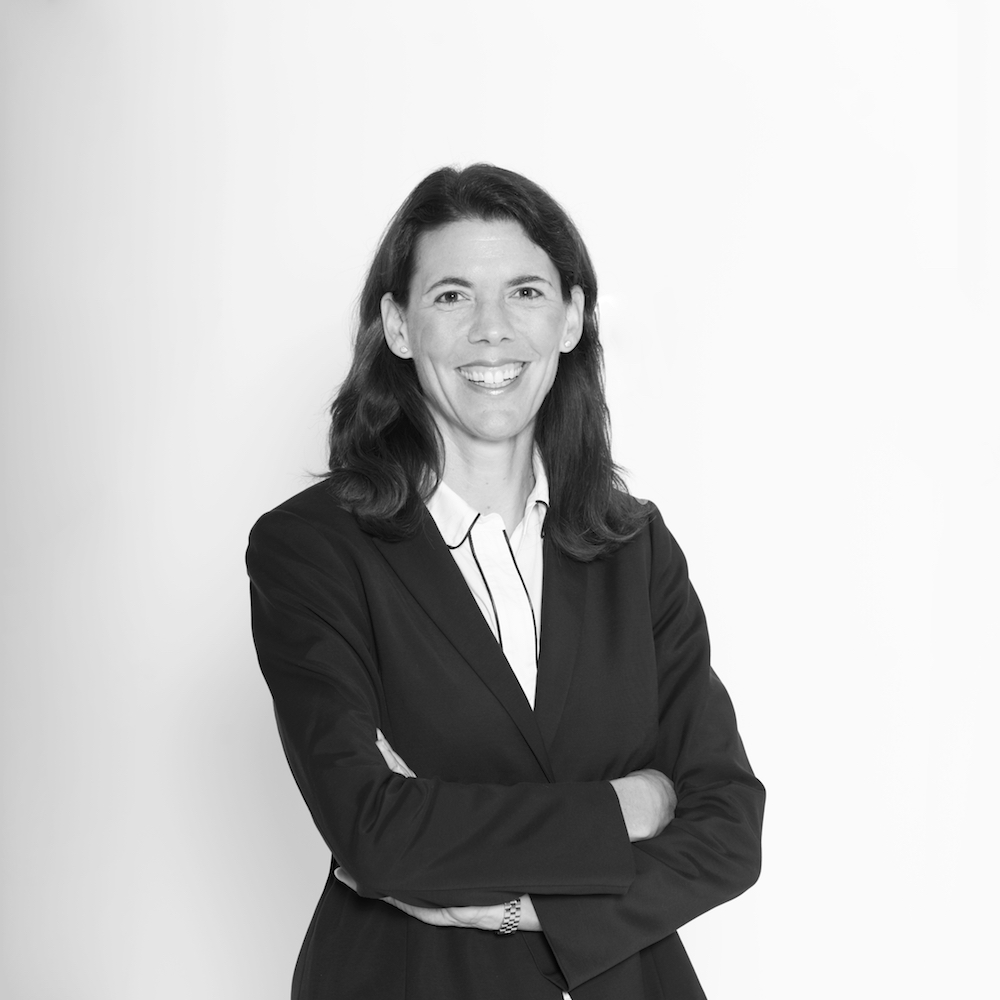
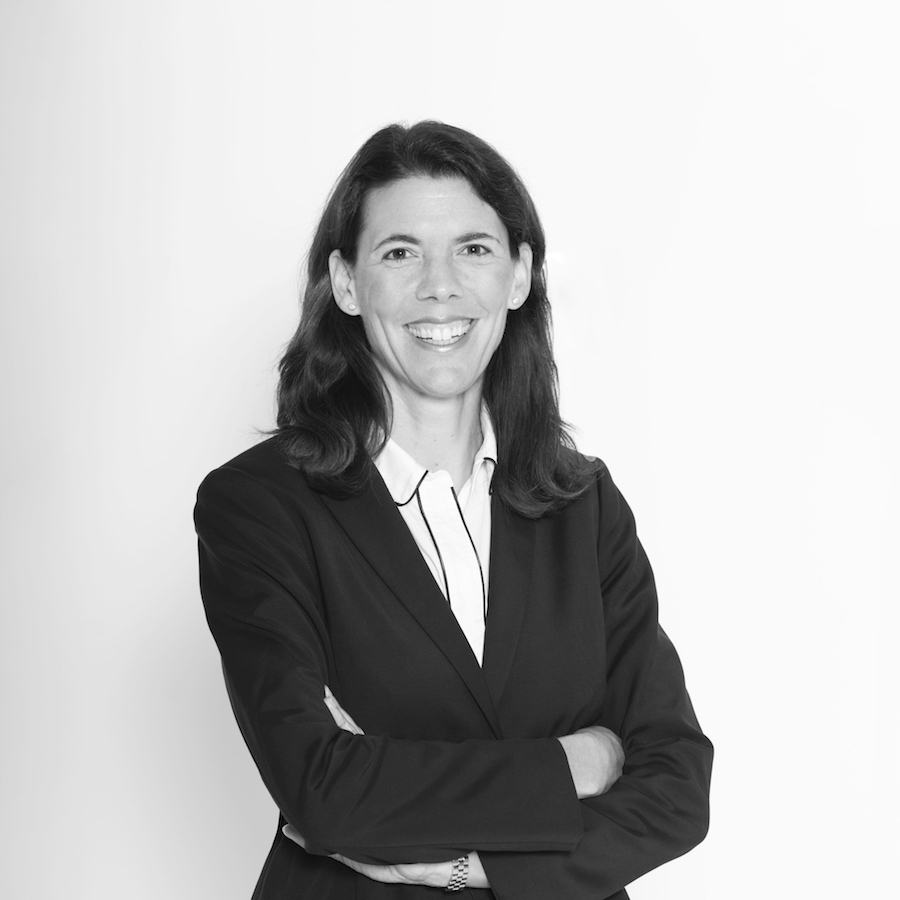
update pics

diff --git a/src/components/pictureslider/aboutgroupslider.jsx b/src/components/pictureslider/aboutgroupslider.jsx
@@ -11,7 +11,7 @@ import Ginie from '../../images/ginie.jpg';
 import Larissa from '../../images/larissa.jpg';
 import Keith from '../../../static/teamssuf/keith.jpg';
 import Daniel from '../../../static/teamssuf/daniel.jpg';
-import Tamara from '../../../static/teamssuf/tamarasquare.jpg';
+import Tamara from '../../images/tamaranew.jpg';
 // import Jana from '../../../static/teamssuf/jana.jpg';
 
 import './arrow.css';
@@ -390,7 +390,7 @@ const pages = [
               <dd className='ml0 mb3'>Startups, modern art and wine</dd>
               <dt className='f6 b mt2'>Favorite Book</dt>
               <dd className='ml0 mb3'>
-              The Art of Thinking Clearly, Rolf Dobelli
+                The Art of Thinking Clearly, Rolf Dobelli
               </dd>
             </dl>
           </div>

diff --git a/src/pages/aboutus.jsx b/src/pages/aboutus.jsx
@@ -246,7 +246,7 @@ about8: file(relativePath: { eq: "images/daniel.jpg" }) {
     }
   }
 }
-about9: file(relativePath: { eq: "images/desiree.jpg" }) {
+about9: file(relativePath: { eq: "images/desireenew.jpg" }) {
   childImageSharp {
     fluid(
       maxWidth: 1500
@@ -266,7 +266,7 @@ about10: file(relativePath: { eq: "images/larissa.jpg" }) {
     }
   }
 }
-about11: file(relativePath: { eq: "images/tamara.jpg" }) {
+about11: file(relativePath: { eq: "images/tamaranew.jpg" }) {
   childImageSharp {
     fluid(
       maxWidth: 1500
